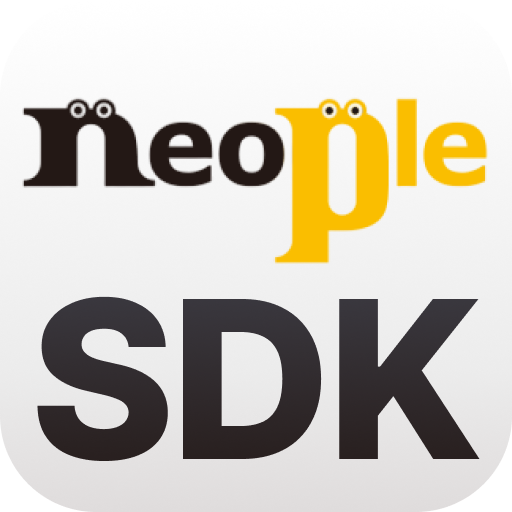
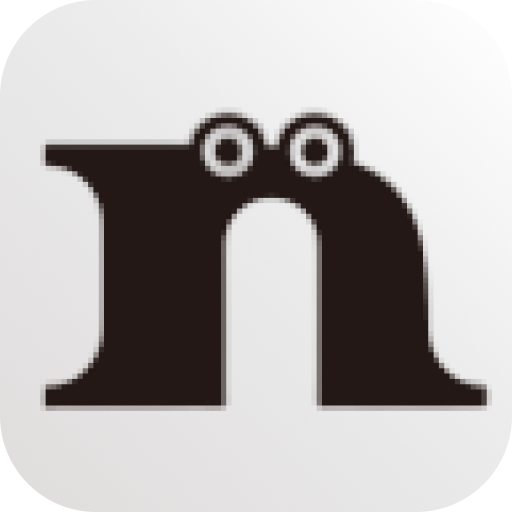
SVG 로고를 Neople 아이콘으로 교체
- circle SVG를 icon_mini.png로 대체
- SSG 환경에서 사용 가능하도록 img 태그 사용
- public 디렉토리에 아이콘 배치

🤖 Generated with [Claude Code](https://claude.ai/code)

diff --git a/src/app/layout.config.tsx b/src/app/layout.config.tsx
@@ -11,14 +11,13 @@ export const baseOptions: BaseLayoutProps = {
   nav: {
     title: (
       <>
-        <svg
-          width="24"
-          height="24"
-          xmlns="http://www.w3.org/2000/svg"
-          aria-label="Logo"
-        >
-          <circle cx={12} cy={12} r={12} fill="currentColor" />
-        </svg>
+        <img
+          src="/icon_mini.png"
+          alt="Neople Logo"
+          width={24}
+          height={24}
+          className="rounded"
+        />
         Neople SDK JS
       </>
     ),
